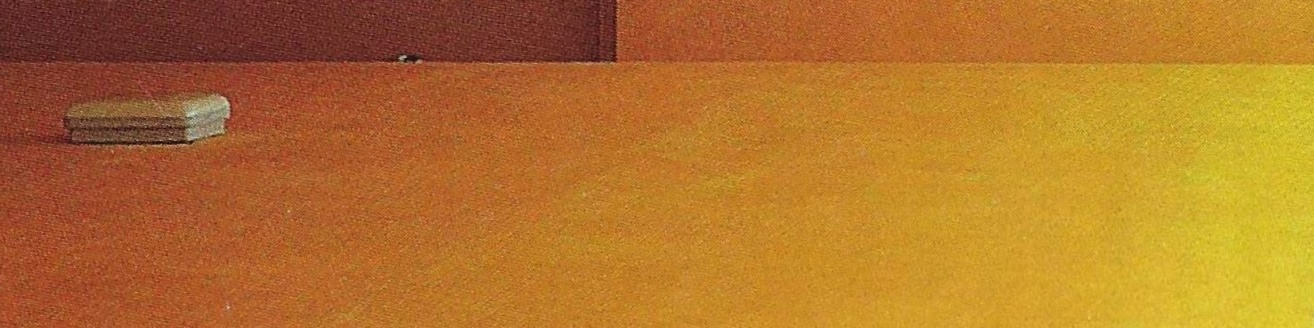
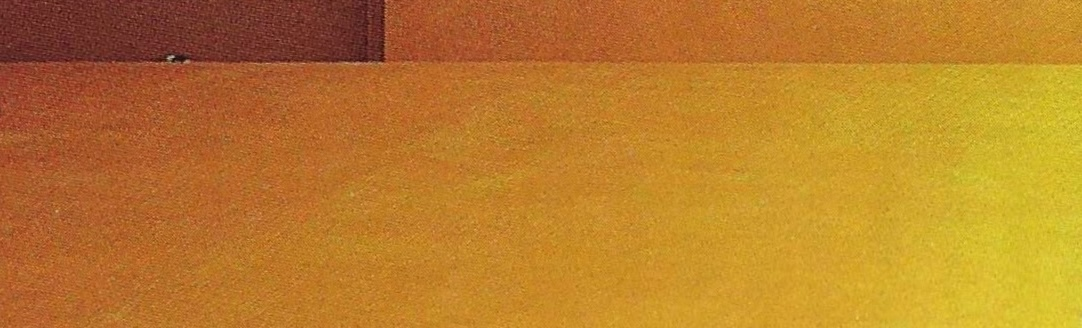
Add files via upload

diff --git a/styles.css b/styles.css
@@ -1,11 +1,11 @@
 
-@import url('https://fonts.googleapis.com/css2?family=Azeret+Mono:wght@300;400&family=IBM+Plex+Sans:wght@300;400;500;700&display=swap');
+@import url('https://fonts.googleapis.com/css2?family=Azeret+Mono:wght@300;400&display=swap');
 
 body{
   margin:0;
   background:#e3e5e3;
   color:#111;
-  font-family:"IBM Plex Sans",sans-serif;
+  font-family:-apple-system,BlinkMacSystemFont,"Segoe UI",Helvetica,Arial,sans-serif;
   line-height:1.8;
 }
 
@@ -36,7 +36,7 @@ nav a{
 }
 
 h1,h2{
-  font-family:"IBM Plex Sans",sans-serif;
+  font-family:"Azeret Mono",monospace;
   font-weight:300;
   margin:36px 0;
 }
@@ -51,7 +51,7 @@ h1,h2{
 }
 
 .connect{
-  
+  margin-top:80px;
   padding:40px;
   background-image:url('assets/concrete.jpg');
   background-size:cover;
@@ -59,7 +59,7 @@ h1,h2{
 }
 
 .footer{
-  
+  margin-top:80px;
   padding:40px 48px 120px;
   background-image:url('assets/concrete.jpg');
   background-size:cover;
@@ -67,30 +67,8 @@ h1,h2{
   font-size:12px;
 }
 
-
-.proposition{
- border-top:1px solid #bdbdbd;
- border-bottom:1px solid #bdbdbd;
- padding:50px 0;
- margin:60px 0;
- max-width:520px;
-}
-.proposition p{
- font-size:24px;
- margin:14px 0;
-}
-.card{
- border-top:1px solid #bdbdbd;
- padding:40px 0;
-}
-.card:last-of-type{
- border-bottom:1px solid #bdbdbd;
-}
-.button{
- display:inline-block;
- padding:10px 18px;
- border:1px solid #111;
- text-decoration:none;
- color:#111;
- margin-top:10px;
-}
+.home-prop,.home-mm{font-size:28px}
+.home-line{width:180px;border-top:1px solid #999;margin:30px 0}
+.cardimg{width:100%;display:block;margin-bottom:20px}
+.card{padding:40px 0;border-top:1px solid #bbb}
+.footer{margin-top:0!important}

diff --git a/sketchbook.html b/sketchbook.html
@@ -1,32 +1,9 @@
-<html><head><link rel="stylesheet" href="styles.css"></head><body><header><nav>
-<a href="index.html">home</a>
-<a href="what-we-do.html">what we do</a>
-<a href="work-with-us.html">work with us</a>
-<a href="sketchbook.html">sketchbook</a>
-</nav></header><img class="hero" src="assets/web9.jpg"><div class="content"><h2>sketchbook</h2><p>what's happening · pieces, processes, ideas, sketches</p>
-
-<div class="card">
-<h3>Humanity Project</h3>
-<p>Podcast | Food as resistance in North London</p>
-<a class="button" href="https://soundcloud.com/voicesradio_ldn/making-movements-w-humanity">listen</a>
-</div>
-
-<div class="card">
-<h3>Street Works</h3>
-<p>Website | Civic street festival in Jackson Heights, New York</p>
-<a class="button" href="https://www.street-work.org/">visit</a>
-</div>
-
-<div class="card">
-<h3>They will always let you down</h3>
-<p>Blog | reflections on the 'anti-war president'</p>
-<a class="button" href="https://substack.com/home/post/p-183426736">read</a>
-</div>
-
-<div class="connect">
-<strong>More sketches, news and inspiration</strong><br><br>
-<a class="button" href="https://www.instagram.com/makingmovements.world/">instagram</a>
-<a class="button" href="#">newsletter</a>
-</div>
-
+<html><head><link rel="stylesheet" href="styles.css"></head><body>
+<header><nav><a href="index.html">home</a> <a href="what-we-do.html">what we do</a> <a href="work-with-us.html">work with us</a> <a href="sketchbook.html">sketchbook</a></nav></header>
+<img class="hero" src="assets/web9.jpg">
+<div class="content"><h2>sketchbook</h2><p>· pieces · processes · ideas · inspiration ·</p>
+<div class="card"><img class="cardimg" src="assets/Template.jpg"><p><strong>Voices Radio meets Humanity Project</strong><br>podcast<br>food as resistance in north london</p><a class="button" href="https://soundcloud.com/voicesradio_ldn/making-movements-w-humanity">listen</a></div>
+<div class="card"><img class="cardimg" src="assets/Screenshot 2026-06-11 at 11.41.17.png"><p><strong>Street Works</strong><br>event<br>civic street festival in jackson heights, new york</p><a class="button" href="https://www.street-work.org/">visit</a></div>
+<div class="card"><img class="cardimg" src="assets/image (1).jpg"><p><strong>they will always let you down</strong><br>poem<br>reflections on the 'anti-war president'</p><a class="button" href="https://substack.com/home/post/p-183426736">read</a></div>
+<div class="connect"><strong>more sketches, news and inspiration</strong><br><br><a class="button" href="https://instagram.com/makingmovements.world">instagram</a> <a class="button">join newsletter</a></div>
 </div><div class="footer">making movements · counterculture / creative / collective</div></body></html>

diff --git a/work-with-us.html b/work-with-us.html
@@ -1,12 +1,15 @@
-<html><head><link rel="stylesheet" href="styles.css"></head><body><header><nav>
-<a href="index.html">home</a>
-<a href="what-we-do.html">what we do</a>
-<a href="work-with-us.html">work with us</a>
-<a href="sketchbook.html">sketchbook</a>
-</nav></header><img class="hero" src="assets/web7.jpg"><div class="content"><h2>work with us</h2><p>Making Movements brings together artists, creatives, communities and organisations to imagine a new political culture.</p><h2>for artists</h2><p>A space to turn political frustration into creative action.</p><p>We host workshops in person and online, where artists, musicians, writers, designers, facilitators and curious people explore political futures through making.</p><p>These are spaces for experimentation, collaboration and constructive imagination.</p><p>Whether you're a poet, electronic music producer, visual artist, organiser, researcher or simply interested in the future of politics, we'd love to hear from you.</p><h2>for organisations</h2><p>We bring artists, imagination and creative practice into conversations about participation, democracy and social change.</p><p>We design and facilitate participatory workshops, creative programmes and cultural interventions.</p><p>We help democratic ideas become tangible, engaging and culturally resonant.</p><ul><li>artist collaborations</li><li>participatory workshops</li><li>public engagement programmes</li><li>events and conferences</li><li>citizens' assemblies</li><li>creative facilitation</li><li>cultural strategy</li><li>communications and storytelling</li></ul><h2>contact</h2><p>Get in touch to discuss a collaboration, commission, workshop or conversation.</p><form>
-<input type="text" placeholder="name">
-<input type="email" placeholder="email">
-<textarea rows="5" placeholder="message"></textarea>
-<label><input type="checkbox"> join mailing list</label><br><br>
-<button type="submit">send</button>
-</form></div><div class="footer">making movements · counterculture / creative / collective</div></body></html>
+<html><head><link rel="stylesheet" href="styles.css"></head><body>
+<header><nav><a href="index.html">home</a> <a href="what-we-do.html">what we do</a> <a href="work-with-us.html">work with us</a> <a href="sketchbook.html">sketchbook</a></nav></header>
+<img class="hero" src="assets/web7.jpg">
+<div class="content"><h2>work with us</h2>
+<p>making movements brings together artists, creatives, communities and organisations to imagine a new political culture.</p>
+<p><strong>for artists</strong></p>
+<p>A space to turn political frustration into creative action.</p>
+<p>We host workshops in person and online, where artists, musicians, writers, designers, facilitators and curious people explore political futures through making.</p>
+<p>These are spaces for experimentation, collaboration and constructive imagination.</p>
+<p>Whether you're a poet, electronic music producer, visual artist, organiser, researcher or simply interested in the future of politics, we'd love to hear from you.</p>
+<p><strong>for organisations</strong></p>
+<p>We bring artists, imagination and creative practice into conversations about participation, democracy and social change.</p>
+<ul><li>artist collaborations</li><li>participatory workshops</li><li>public engagement programmes</li><li>events and conferences</li><li>citizens' assemblies</li><li>creative facilitation</li><li>cultural strategy</li><li>communications and storytelling</li></ul>
+<div class="connect"><strong>contact</strong><br><br>discuss a collaboration, commission, workshop or conversation<br><br><button onclick="navigator.clipboard.writeText('[email redacted]');this.innerText='email copied'">contact us</button> <a class="button">join newsletter</a></div>
+</div><div class="footer">making movements · counterculture / creative / collective</div></body></html>

diff --git a/index.html b/index.html
@@ -1,11 +1,10 @@
-<html><head><link rel="stylesheet" href="styles.css"></head><body><header><nav>
-<a href="index.html">home</a>
-<a href="what-we-do.html">what we do</a>
-<a href="work-with-us.html">work with us</a>
-<a href="sketchbook.html">sketchbook</a>
-</nav></header><img class="hero" src="assets/web4.jpg"><div class="content">
-<div class="proposition">
-<h1>Making Movements<h1>
-<p>a creative platform</p>
-<p>to imagine a new politics</p>
-</div></div><div class="footer">making movements · counterculture / creative / collective</div></body></html>
+<html><head><link rel="stylesheet" href="styles.css"></head><body>
+<header><nav><a href="index.html">home</a> <a href="what-we-do.html">what we do</a> <a href="work-with-us.html">work with us</a> <a href="sketchbook.html">sketchbook</a></nav></header>
+<img class="hero" src="assets/web4.jpg">
+<div class="content">
+<p class="home-prop">a creative platform<br>to imagine a new politics</p>
+<div class="home-line"></div>
+<p class="home-mm">making movements</p>
+</div>
+<div class="footer">making movements · counterculture / creative / collective</div>
+</body></html>

diff --git a/what-we-do.html b/what-we-do.html
@@ -1,6 +1,14 @@
-<html><head><link rel="stylesheet" href="styles.css"></head><body><header><nav>
-<a href="index.html">home</a>
-<a href="what-we-do.html">what we do</a>
-<a href="work-with-us.html">work with us</a>
-<a href="sketchbook.html">sketchbook</a>
-</nav></header><img class="hero" src="assets/web6.jpg"><div class="content"><h2>what we do</h2><p>we believe</p><ul><li>Our world is broken and politics has become the problem, not the solution.</li><li>We can do it differently. Innovations and alternatives are emerging.</li><li>We won't change our systems without public pressure. Culture can create this pressure.</li><li>Words are not enough. We learn by making and doing and feeling.</li></ul><div class="rule"></div><p>we create</p><ul><li>art, events and experiences</li><li>explorative sessions and workshops</li><li>connections and opportunities</li><li>cultural programmes and strategy</li><li>a shared imagination of a different politics</li></ul></div><div class="footer">making movements · counterculture / creative / collective</div></body></html>
+<html><head><link rel="stylesheet" href="styles.css"></head><body>
+<header><nav><a href="index.html">home</a> <a href="what-we-do.html">what we do</a> <a href="work-with-us.html">work with us</a> <a href="sketchbook.html">sketchbook</a></nav></header>
+<img class="hero" src="assets/web6.jpg">
+<div class="content">
+<h2>what we do</h2>
+<p>making movements is a platform for artists and creatives of all kinds to imagine a new politics and bring it to life.</p>
+<div class="rule"></div>
+<p>politics is broken and its tearing our world apart. until we change our political systems things will keep getting worse.</p>
+<p>but change is all around us</p>
+<p>we respond to the political alternatives emerging around the world, creatively, to build a shared imagination of a possible future.</p>
+<p>we create</p>
+<ul><li>explorative sessions and creative workshops</li><li>meet-ups connections and opportunities</li><li>art, installations and experiences</li><li>cultural programmes and strategy</li></ul>
+<div class="connect"><strong>more sketches, news and inspiration</strong><br><br><a class="button">instagram</a> <a class="button">join newsletter</a></div>
+</div><div class="footer">making movements · counterculture / creative / collective</div></body></html>